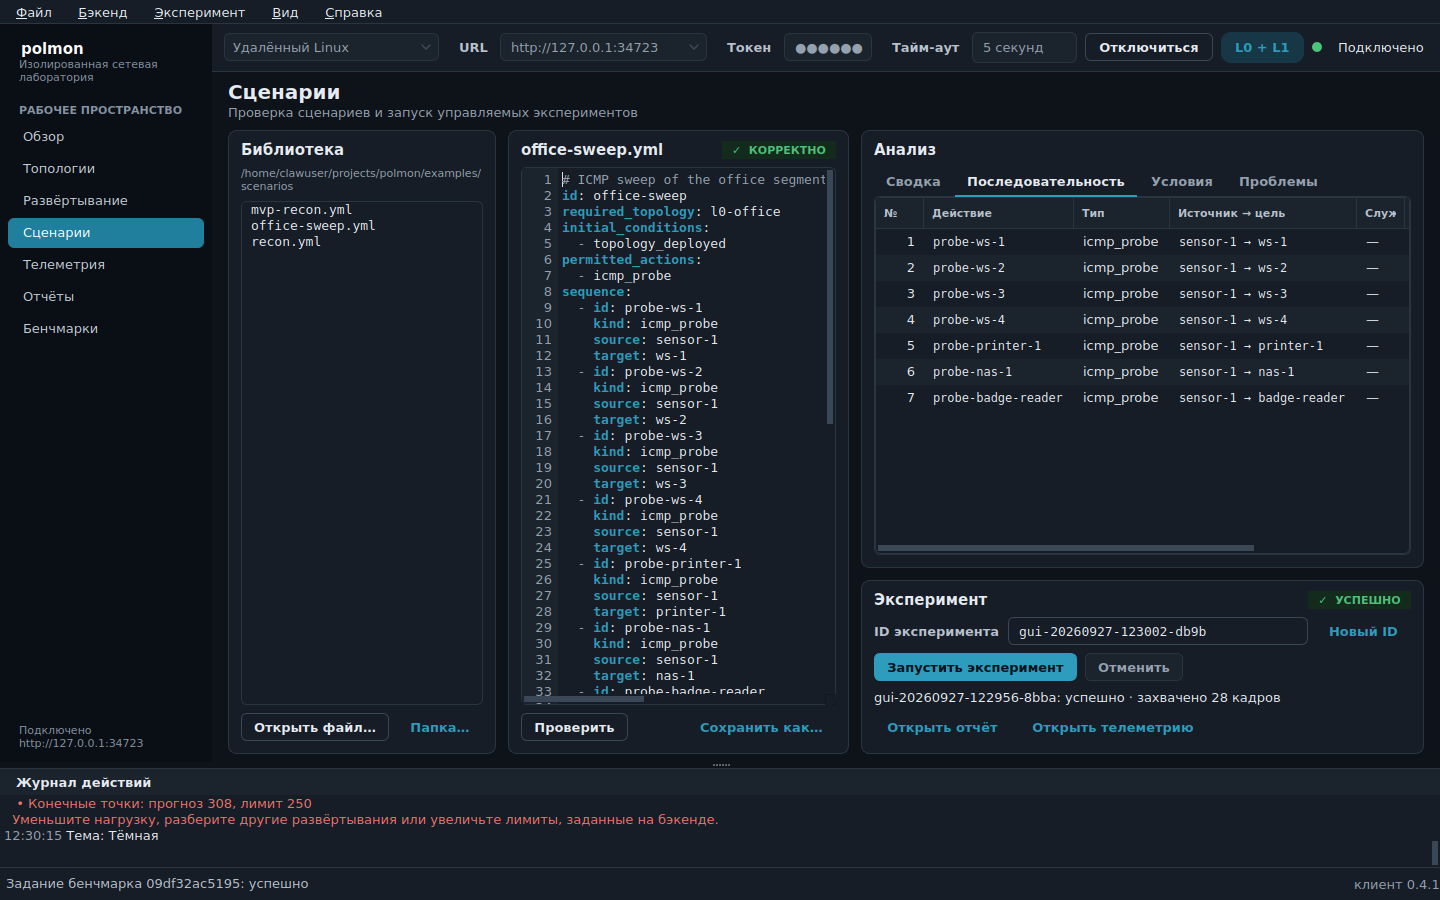
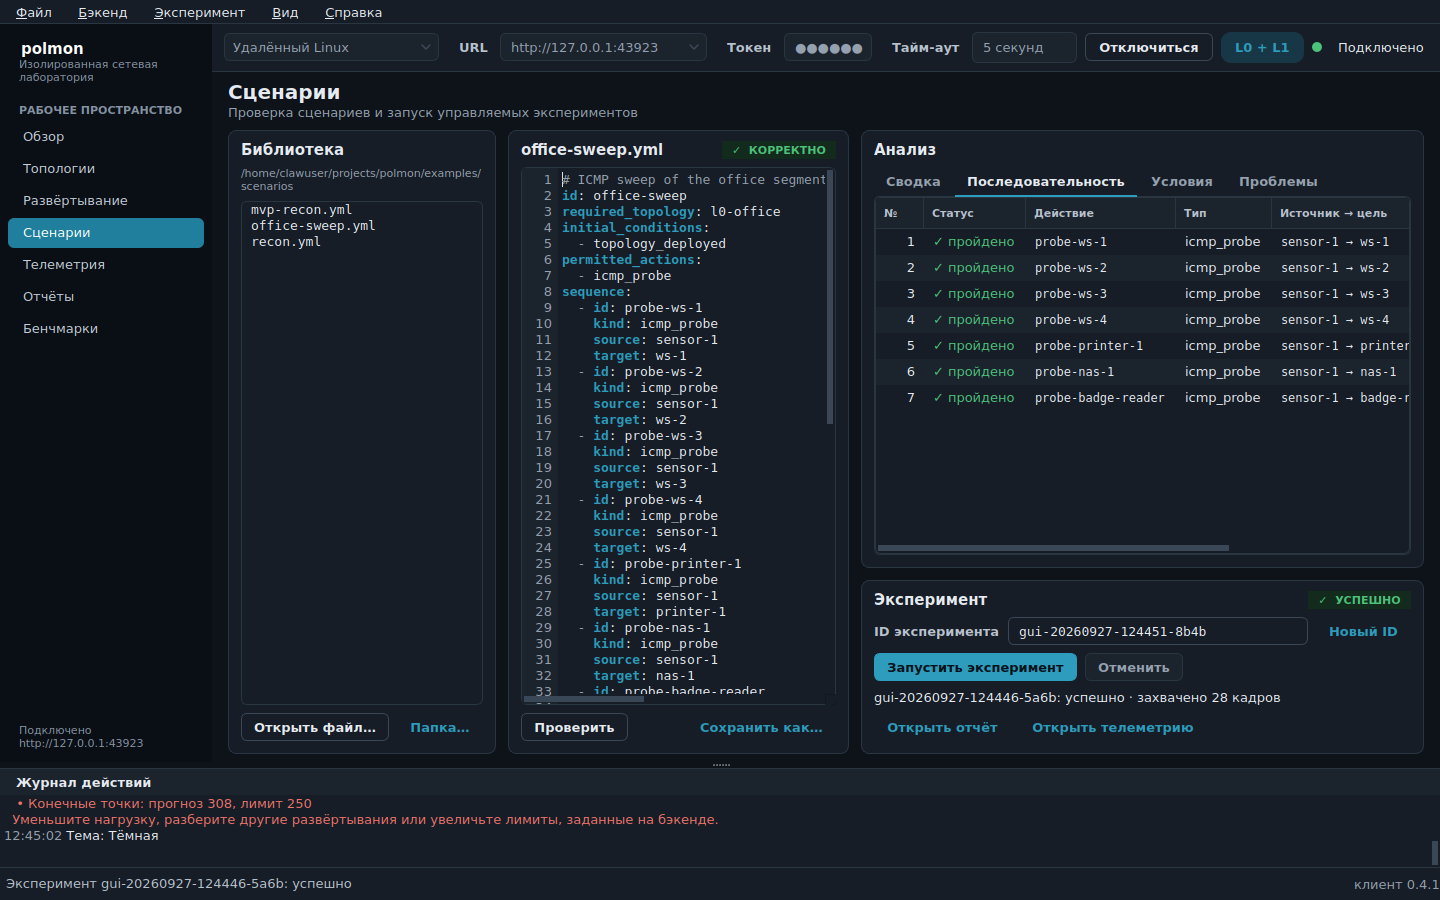
fix(client): scenario sequence keeps status in view
The sequence table in the analysis card was wider than the card: the
status and detail columns scrolled out of view and the last visible
header was cut ("Слу…"). Status now follows the action number, and the
service column is hidden when no action in the sequence has a service
(ICMP-only scenarios). Column positions are named constants that the
workflow tests use instead of bare indices.

diff --git a/src/polmon/client/pages/scenarios.py b/src/polmon/client/pages/scenarios.py
@@ -45,6 +45,21 @@ def new_experiment_id() -> str:
     return f"gui-{datetime.now().strftime('%Y%m%d-%H%M%S')}-{secrets.token_hex(2)}"
 
 
+
+# The sequence table: status right after the number, so a run's progress is always in view.
+SEQUENCE_COLUMNS = (
+    "column.number",
+    "column.status",
+    "column.action",
+    "column.kind",
+    "column.source_target",
+    "column.service",
+    "column.detail",
+)
+STATUS_COLUMN = SEQUENCE_COLUMNS.index("column.status")
+ACTION_COLUMN = SEQUENCE_COLUMNS.index("column.action")
+SERVICE_COLUMN = SEQUENCE_COLUMNS.index("column.service")
+
 class BackendLost(RuntimeError):
     def __init__(self, experiment_id: str) -> None:
         super().__init__(f"lost contact with the backend while experiment {experiment_id} ran")
@@ -134,17 +149,9 @@ class ScenariosPage(Page):
         self.summary = make_table(("column.property", "column.value"), stretch=1,
                                   sortable=False, name="scenarioSummary")
         self.sequence = make_table(
-            (
-                "column.number",
-                "column.action",
-                "column.kind",
-                "column.source_target",
-                "column.service",
-                "column.status",
-                "column.detail",
-            ),
-            stretch=6,
-            mono=(1, 3),
+            SEQUENCE_COLUMNS,
+            stretch=SEQUENCE_COLUMNS.index("column.detail"),
+            mono=(ACTION_COLUMN, SEQUENCE_COLUMNS.index("column.source_target")),
             sortable=False,
             name="scenarioSequence",
         )
@@ -455,15 +462,19 @@ class ScenariosPage(Page):
             rows.append(
                 (
                     index,
+                    status,
                     action["id"],
                     action["kind"],
                     f"{action['source']} → {action['target']}",
                     action.get("service"),
-                    status,
                     detail,
                 )
             )
-        fill_table(self.sequence, rows, colors={5: "status"})
+        # ICMP-only sequences have no services: the column would only push the details out of
+        # the narrow analysis card.
+        services = any(action.get("service") for action in scenario.get("sequence") or [])
+        self.sequence.setColumnHidden(SERVICE_COLUMN, not services)
+        fill_table(self.sequence, rows, colors={STATUS_COLUMN: "status"})
 
     def _fill_conditions(self, report: dict[str, object] | None) -> None:
         if report and isinstance(report.get("expected_vs_actual"), list):

diff --git a/tests/gui/test_workflow.py b/tests/gui/test_workflow.py
@@ -10,6 +10,7 @@ from PySide6.QtCore import Qt
 
 from polmon.api import control as control_module
 from polmon.client.i18n import status_label, tr
+from polmon.client.pages.scenarios import STATUS_COLUMN
 from polmon.client.state import ConnectionState
 from polmon.client.widgets import raw_value
 from polmon.resources import ResourceLimits
@@ -74,12 +75,12 @@ def test_full_operator_workflow(window, qtbot, live_backend, tmp_path) -> None:
     scenarios.run()
     assert window.context.busy and window.progress.isVisible()
     qtbot.waitUntil(lambda: scenarios.outcome.status == "succeeded", timeout=30_000)
-    assert [raw_value(scenarios.sequence, r, 5) for r in range(3)] == ["ok", "ok", "ok"]
+    assert [raw_value(scenarios.sequence, r, STATUS_COLUMN) for r in range(3)] == ["ok", "ok", "ok"]
     assert raw_value(scenarios.conditions, 0, 4) == "met"
     assert status_label("succeeded") in window.statusBar().currentMessage()  # announced
     scenarios.validate(quiet=True)  # background re-validation must not wipe the run results
     qtbot.wait(500)
-    assert [raw_value(scenarios.sequence, r, 5) for r in range(3)] == ["ok", "ok", "ok"]
+    assert [raw_value(scenarios.sequence, r, STATUS_COLUMN) for r in range(3)] == ["ok", "ok", "ok"]
     assert raw_value(scenarios.conditions, 0, 4) == "met"
     experiment_id = scenarios.last_record["experiment_id"]
 
@@ -216,7 +217,7 @@ def test_running_experiment_can_be_cancelled(
     assert update.total == 30 and "/30" in window.progress.detail.text()
     assert window.context.cancel_operation()  # Esc / Cancel: graceful backend cancellation
     qtbot.waitUntil(lambda: scenarios.outcome.status == "cancelled", timeout=20_000)
-    done = sum(raw_value(scenarios.sequence, r, 5) == "ok" for r in range(30))
+    done = sum(raw_value(scenarios.sequence, r, STATUS_COLUMN) == "ok" for r in range(30))
     assert 0 < done < 30
     assert not window.context.busy
 

diff --git a/CHANGELOG.md b/CHANGELOG.md
@@ -38,6 +38,9 @@ All notable changes are documented here. Versions follow Semantic Versioning.
   `detail_code` and `detail_params` (approach (a), docs/API.md) and the client renders
   *запуск*, *конечных точек: 10 · повтор 1*, *отмена…*; an older backend's text is quoted.
 - An unknown remaining time reads *осталось: —* instead of *осталось: ≈ —*.
+- The scenario sequence table shows each action's status right after its number, and hides
+  the service column when no action has a service: status and details had scrolled out of the
+  analysis card (its last visible header was cut to *Слу…*).
 
 - Status colours in tables, trees and lists follow a theme switch: they kept the previous
   theme's colour (a dark-green "✓ успешно" on the dark theme's background).
